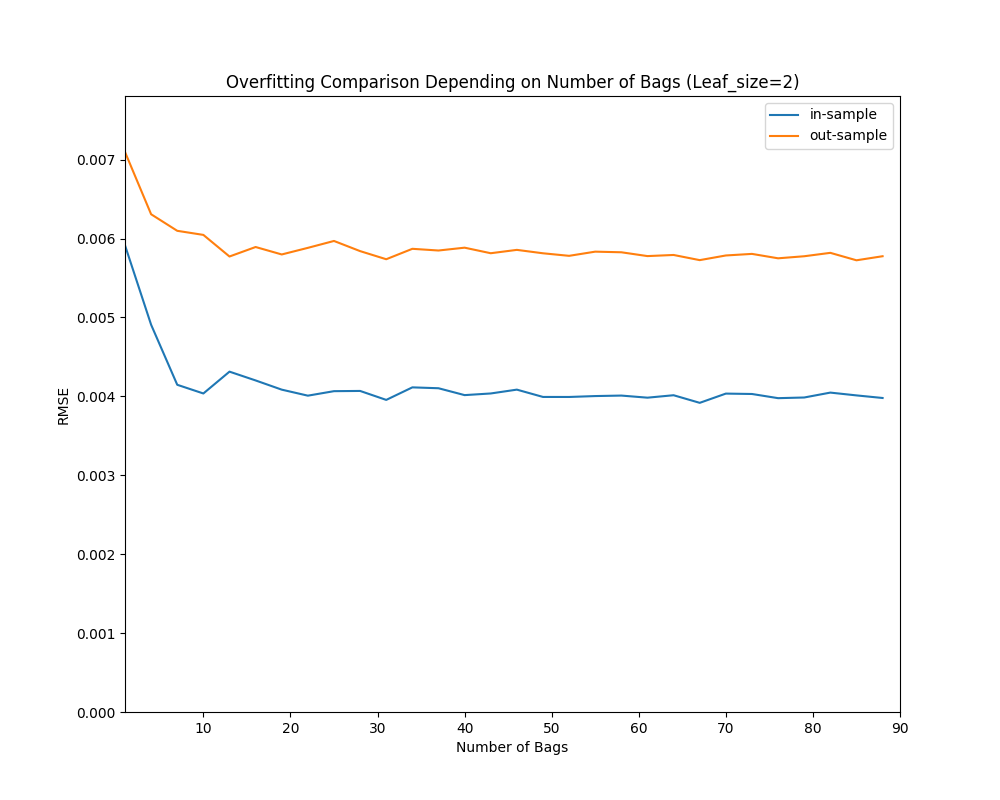
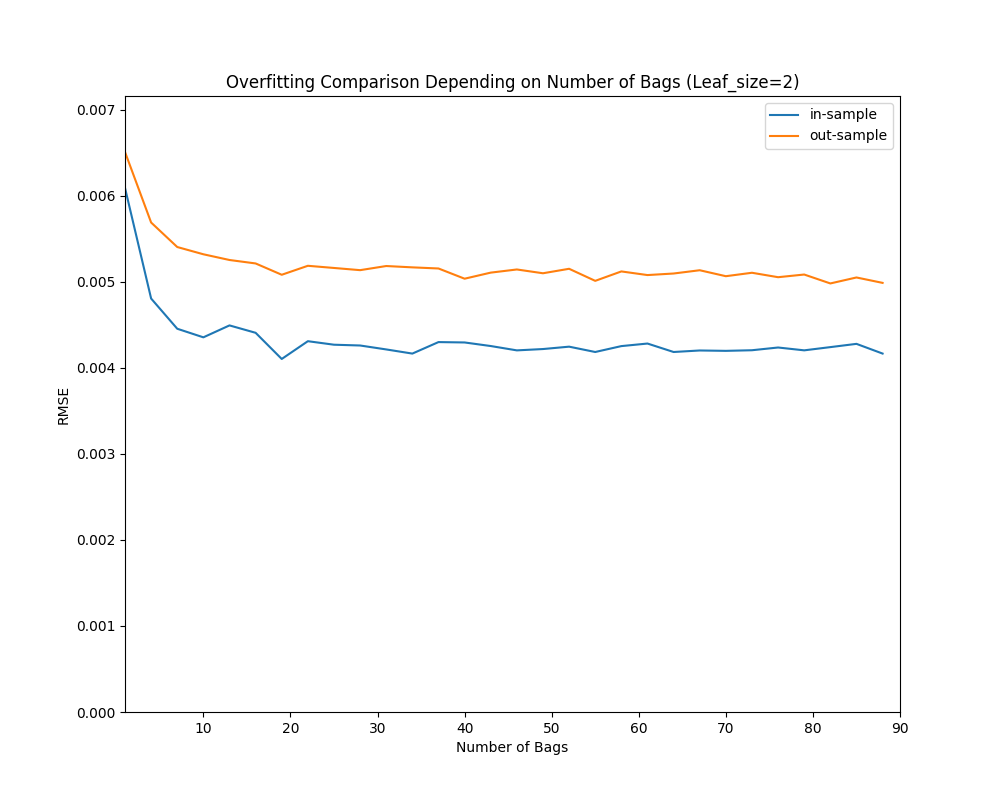
not ending

diff --git a/04_HW_3_Assess_Learners/testlearner.py b/04_HW_3_Assess_Learners/testlearner.py
@@ -101,106 +101,146 @@ if __name__=="__main__":
 
 
 
+    ## FOR DT Learner Leaf size 1 to all
+    for leaf in range(1,trainX.shape[0]):
+        learner = dl.DTLearner(leaf_size=leaf, verbose=False)
+        in_sample, out_sample = rmse(trainX, trainY, testX, testY, learner)
+        hold_it[0, leaf-1] = in_sample
+        hold_it[1, leaf-1] = out_sample
+
+    q = np.argmin(hold_it[1, :])
+    print 'out sample minimum value: ', np.argmin(hold_it[1, :]), np.min(hold_it[1,:])
+    print 'in sample value at min value of out sample: ', hold_it[0, q]
+
+    plt.rcParams["figure.figsize"] = (10,8)    
+    fig, ax = plt.subplots()
+    ax.plot(range(1, trainX.shape[0]), hold_it[0], label='in-sample')
+    ax.plot(range(1, trainX.shape[0]), hold_it[1], label='out-sample')
+    plt.ylabel('RMSE')
+    plt.xlabel('Leaf Size')
+    plt.title('Overfitting Comparison Depending on Leaf Size (TD Learning)')
+    maks = np.max(hold_it) * 1.1 
+    plt.axis([1, trainX.shape[0], 0, maks])
+    plt.legend()  
+    # plt.show()
+    plt.savefig('Overfitting_Comparison_Depending_on_Leaf_Size_Size_All.png')
+
+    # plt.close()
+
+
+    fig, ax = plt.subplots()
+    ax.plot(range(1, 20), hold_it[0, :19], label='in-sample')
+    ax.plot(range(1, 20), hold_it[1, :19], label='out-sample')
+    plt.ylabel('RMSE')
+    plt.xlabel('Leaf Size')
+    plt.title('Overfitting Comparison Depending on Leaf Size (TD Learning)')
+    maks = np.max(hold_it[:, :19]) * 1.1 
+    plt.axis([1, 20, 0, maks])
+    plt.legend()  
+    # plt.rcParams["figure.figsize"] = (10,8)
+    plt.savefig('Overfitting_Comparison_Depending_on_Leaf_Size_Size_20.png')
+
+
+
+    bags = 90
+    diff = 3
+    hold_it = np.zeros((2, bags/diff))
+
+    for no_bag in range(1,bags, diff):
+        # learner = dl.DTLearner(leaf_size=leaf, verbose=False)
+
+        bag = bl.BagLearner(dl.DTLearner, kwargs = {"leaf_size": 9, "verbose": False}, bags = no_bag, boost=False, verbose=False)
+        in_sample, out_sample = rmse(trainX, trainY, testX, testY, bag)
+        hold_it[0, ((no_bag/diff))] = in_sample
+        hold_it[1, ((no_bag/diff))] = out_sample
+
+    print 'leaf_size 9'
+    print hold_it[1, 0]
+    print np.mean(hold_it[1, 20:])
+
+    fig, ax = plt.subplots()
+    ax.plot(range(1,bags,diff), hold_it[0], label='in-sample')
+    ax.plot(range(1,bags,diff), hold_it[1], label='out-sample')
+    plt.ylabel('RMSE')
+    plt.xlabel('Number of Bags')
+    plt.title('Overfitting Comparison Depending on Number of Bags (Leaf_size=9)')
+    maks = np.max(hold_it) * 1.1 
+    plt.axis([1, bags, 0, maks])
+    plt.legend()   
+    # plt.show()
+    plt.savefig('Overfitting_Comparison_Depending_on_Number_of_Bags_Leaf_Size_9.png')
+
+
+
+    # LEAF SIZE 2 bags 30
+    bags = 90
+    diff = 3
+    hold_it = np.zeros((2, bags/diff))
+
+    for no_bag in range(1,bags, diff):
+        # learner = dl.DTLearner(leaf_size=leaf, verbose=False)
+
+        bag = bl.BagLearner(dl.DTLearner, kwargs = {"leaf_size": 2, "verbose": False}, bags = no_bag, boost=False, verbose=False)
+        in_sample, out_sample = rmse(trainX, trainY, testX, testY, bag)
+        hold_it[0, ((no_bag/diff))] = in_sample
+        hold_it[1, ((no_bag/diff))] = out_sample
+
+    print 'leaf_size 2'
+    print hold_it[1, 0]
+    print np.mean(hold_it[1, 20:])
+
+
+    fig, ax = plt.subplots()
+    ax.plot(range(1,bags,diff), hold_it[0], label='in-sample')
+    ax.plot(range(1,bags,diff), hold_it[1], label='out-sample')
+    plt.ylabel('RMSE')
+    plt.xlabel('Number of Bags')
+    plt.title('Overfitting Comparison Depending on Number of Bags (Leaf_size=2)')
+    maks = np.max(hold_it) * 1.1 
+    plt.axis([1, bags, 0, maks])
+    plt.legend()  
+    # plt.show()
+    plt.savefig('Overfitting_Comparison_Depending_on_Number_of_Bags_Leaf_Size_2.png')
+
+
+
+
+
+    hold_it = np.zeros((2, 50))
+
+
     # ## FOR DT Learner Leaf size 1 to all
-    # for leaf in range(1,trainX.shape[0]):
-    #     learner = dl.DTLearner(leaf_size=leaf, verbose=False)
-    #     in_sample, out_sample = rmse(trainX, trainY, testX, testY, learner)
-    #     hold_it[0, leaf-1] = in_sample
-    #     hold_it[1, leaf-1] = out_sample
+    for leaf in range(1,51):
+        bag = bl.BagLearner(dl.DTLearner, kwargs = {"leaf_size": leaf, "verbose": False}, bags = 20, boost=False, verbose=False)
+        in_sample, out_sample = rmse(trainX, trainY, testX, testY, bag)
+        hold_it[0, leaf-1] = in_sample
+        hold_it[1, leaf-1] = out_sample
 
-    # q = np.argmin(hold_it[1, :])
-    # print 'out sample minimum value: ', np.argmin(hold_it[1, :]), np.min(hold_it[1,:])
-    # print 'in sample value at min value of out sample: ', hold_it[0, q]
-
-    # plt.rcParams["figure.figsize"] = (10,8)    
-    # fig, ax = plt.subplots()
-    # ax.plot(range(1, trainX.shape[0]), hold_it[0], label='in-sample')
-    # ax.plot(range(1, trainX.shape[0]), hold_it[1], label='out-sample')
-    # plt.ylabel('RMSE')
-    # plt.xlabel('Leaf Size')
-    # plt.title('Overfitting Comparison Depending on Leaf Size (TD Learning)')
-    # maks = np.max(hold_it) * 1.1 
-    # plt.axis([1, trainX.shape[0], 0, maks])
-    # plt.legend()  
-    # # plt.show()
-    # plt.savefig('Overfitting_Comparison_Depending_on_Leaf_Size_Size_All.png')
-
-    # # plt.close()
+    print 'leaf_size 9'
+    print hold_it[1, 0]
+    print np.mean(hold_it[1, 20:])
 
 
-    # fig, ax = plt.subplots()
-    # ax.plot(range(1, 20), hold_it[0, :19], label='in-sample')
-    # ax.plot(range(1, 20), hold_it[1, :19], label='out-sample')
-    # plt.ylabel('RMSE')
-    # plt.xlabel('Leaf Size')
-    # plt.title('Overfitting Comparison Depending on Leaf Size (TD Learning)')
-    # maks = np.max(hold_it[:, :19]) * 1.1 
-    # plt.axis([1, 20, 0, maks])
-    # plt.legend()  
-    # # plt.rcParams["figure.figsize"] = (10,8)
-    # plt.savefig('Overfitting_Comparison_Depending_on_Leaf_Size_Size_20.png')
+    plt.rcParams["figure.figsize"] = (10,8)    
+
+    fig, ax = plt.subplots()
+
+    ax.plot(range(1, 51), hold_it[0, :], label='in-sample')
+    ax.plot(range(1, 51), hold_it[1, :], label='out-sample')
+    plt.ylabel('RMSE')
+    plt.xlabel('Leaf Size')
+    plt.title('Overfitting Comparison Depending on Leaf Size (TD Learning with Bagging Size 20)')
+    maks = np.max(hold_it) * 1.1 
+    plt.axis([1, 50, 0, maks])
+    plt.legend()  
+    # plt.rcParams["figure.figsize"] = (10,8)
+    plt.savefig('Bagging_Overfitting_Comparison_Depending_on_Leaf_Size_Size_20.png')
 
 
 
-    # bags = 90
-    # diff = 3
-    # hold_it = np.zeros((2, bags/diff))
-
-    # for no_bag in range(1,bags, diff):
-    #     # learner = dl.DTLearner(leaf_size=leaf, verbose=False)
-
-    #     bag = bl.BagLearner(dl.DTLearner, kwargs = {"leaf_size": 9, "verbose": False}, bags = no_bag, boost=False, verbose=False)
-    #     in_sample, out_sample = rmse(trainX, trainY, testX, testY, bag)
-    #     hold_it[0, ((no_bag/diff))] = in_sample
-    #     hold_it[1, ((no_bag/diff))] = out_sample
-
-    # print 'leaf_size 9'
-    # print hold_it[1, 0]
-    # print np.mean(hold_it[1, 20:])
-
-    # fig, ax = plt.subplots()
-    # ax.plot(range(1,bags,diff), hold_it[0], label='in-sample')
-    # ax.plot(range(1,bags,diff), hold_it[1], label='out-sample')
-    # plt.ylabel('RMSE')
-    # plt.xlabel('Number of Bags')
-    # plt.title('Overfitting Comparison Depending on Number of Bags (Leaf_size=9)')
-    # maks = np.max(hold_it) * 1.1 
-    # plt.axis([1, bags, 0, maks])
-    # plt.legend()   
-    # # plt.show()
-    # plt.savefig('Overfitting_Comparison_Depending_on_Number_of_Bags_Leaf_Size_9.png')
 
 
 
-    # # LEAF SIZE 2 bags 30
-    # bags = 90
-    # diff = 3
-    # hold_it = np.zeros((2, bags/diff))
-
-    # for no_bag in range(1,bags, diff):
-    #     # learner = dl.DTLearner(leaf_size=leaf, verbose=False)
-
-    #     bag = bl.BagLearner(dl.DTLearner, kwargs = {"leaf_size": 2, "verbose": False}, bags = no_bag, boost=False, verbose=False)
-    #     in_sample, out_sample = rmse(trainX, trainY, testX, testY, bag)
-    #     hold_it[0, ((no_bag/diff))] = in_sample
-    #     hold_it[1, ((no_bag/diff))] = out_sample
-
-    # print 'leaf_size 2'
-    # print hold_it[1, 0]
-    # print np.mean(hold_it[1, 20:])
-
-
-    # fig, ax = plt.subplots()
-    # ax.plot(range(1,bags,diff), hold_it[0], label='in-sample')
-    # ax.plot(range(1,bags,diff), hold_it[1], label='out-sample')
-    # plt.ylabel('RMSE')
-    # plt.xlabel('Number of Bags')
-    # plt.title('Overfitting Comparison Depending on Number of Bags (Leaf_size=2)')
-    # maks = np.max(hold_it) * 1.1 
-    # plt.axis([1, bags, 0, maks])
-    # plt.legend()  
-    # # plt.show()
-    # plt.savefig('Overfitting_Comparison_Depending_on_Number_of_Bags_Leaf_Size_2.png')
 
 
 
